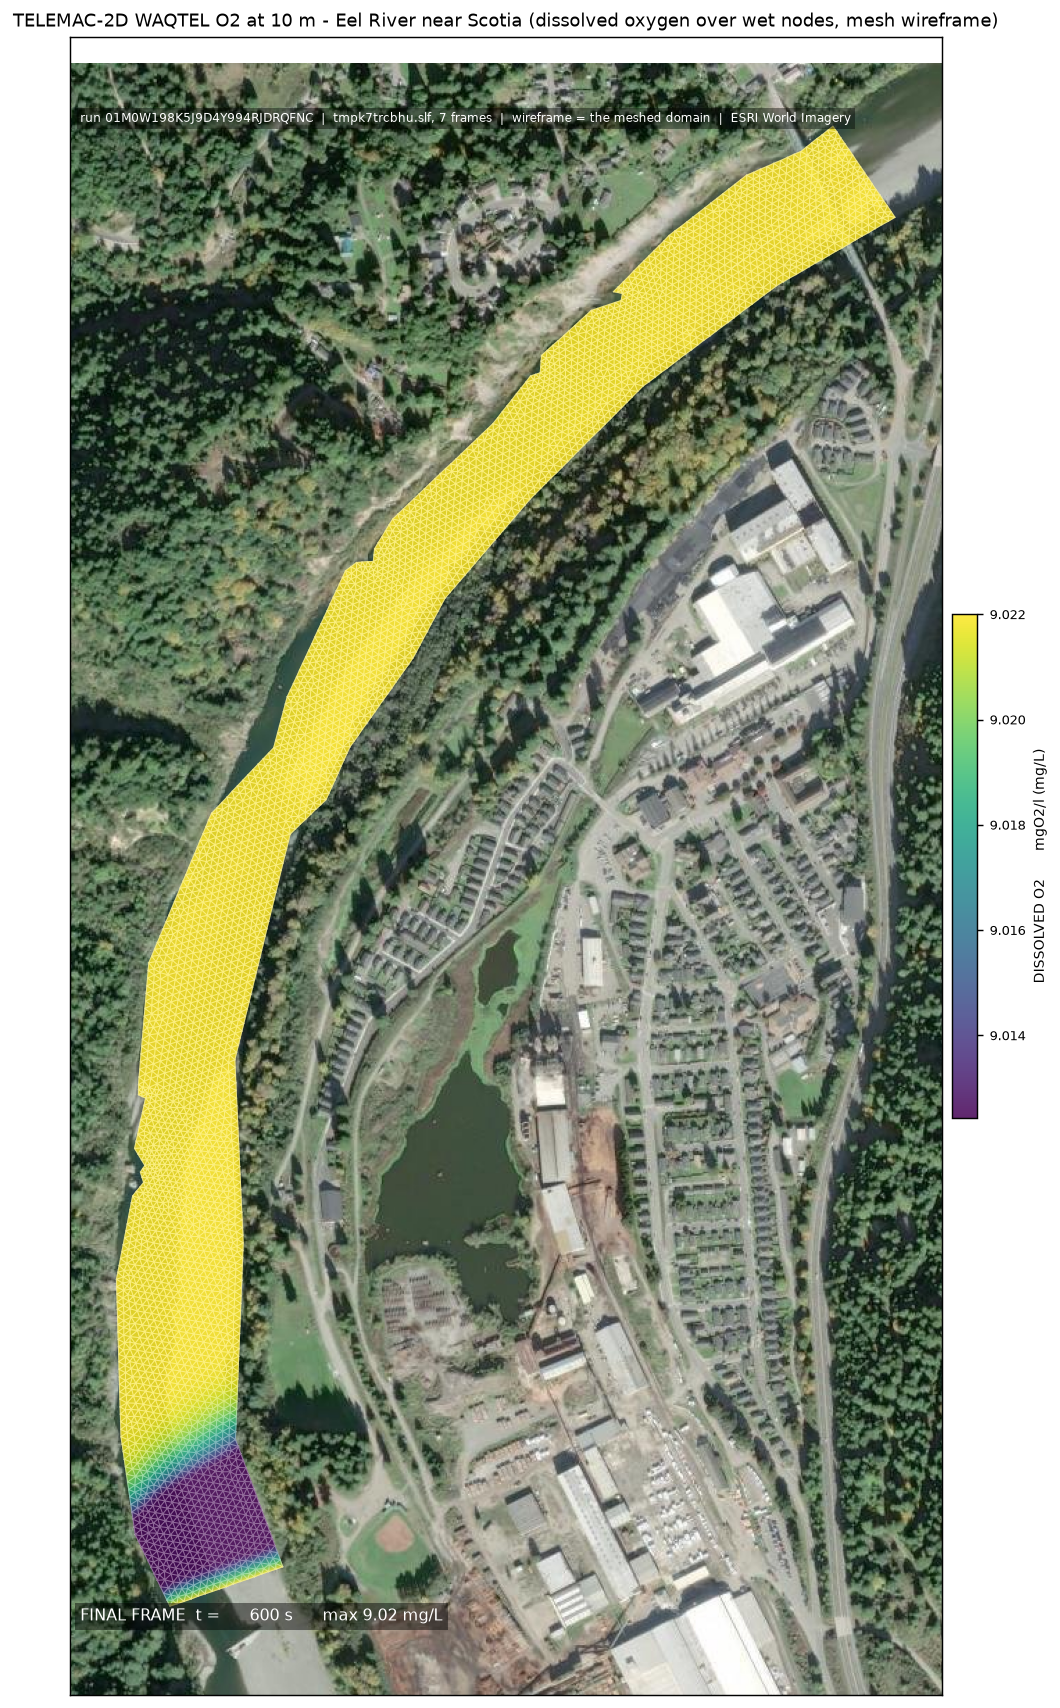
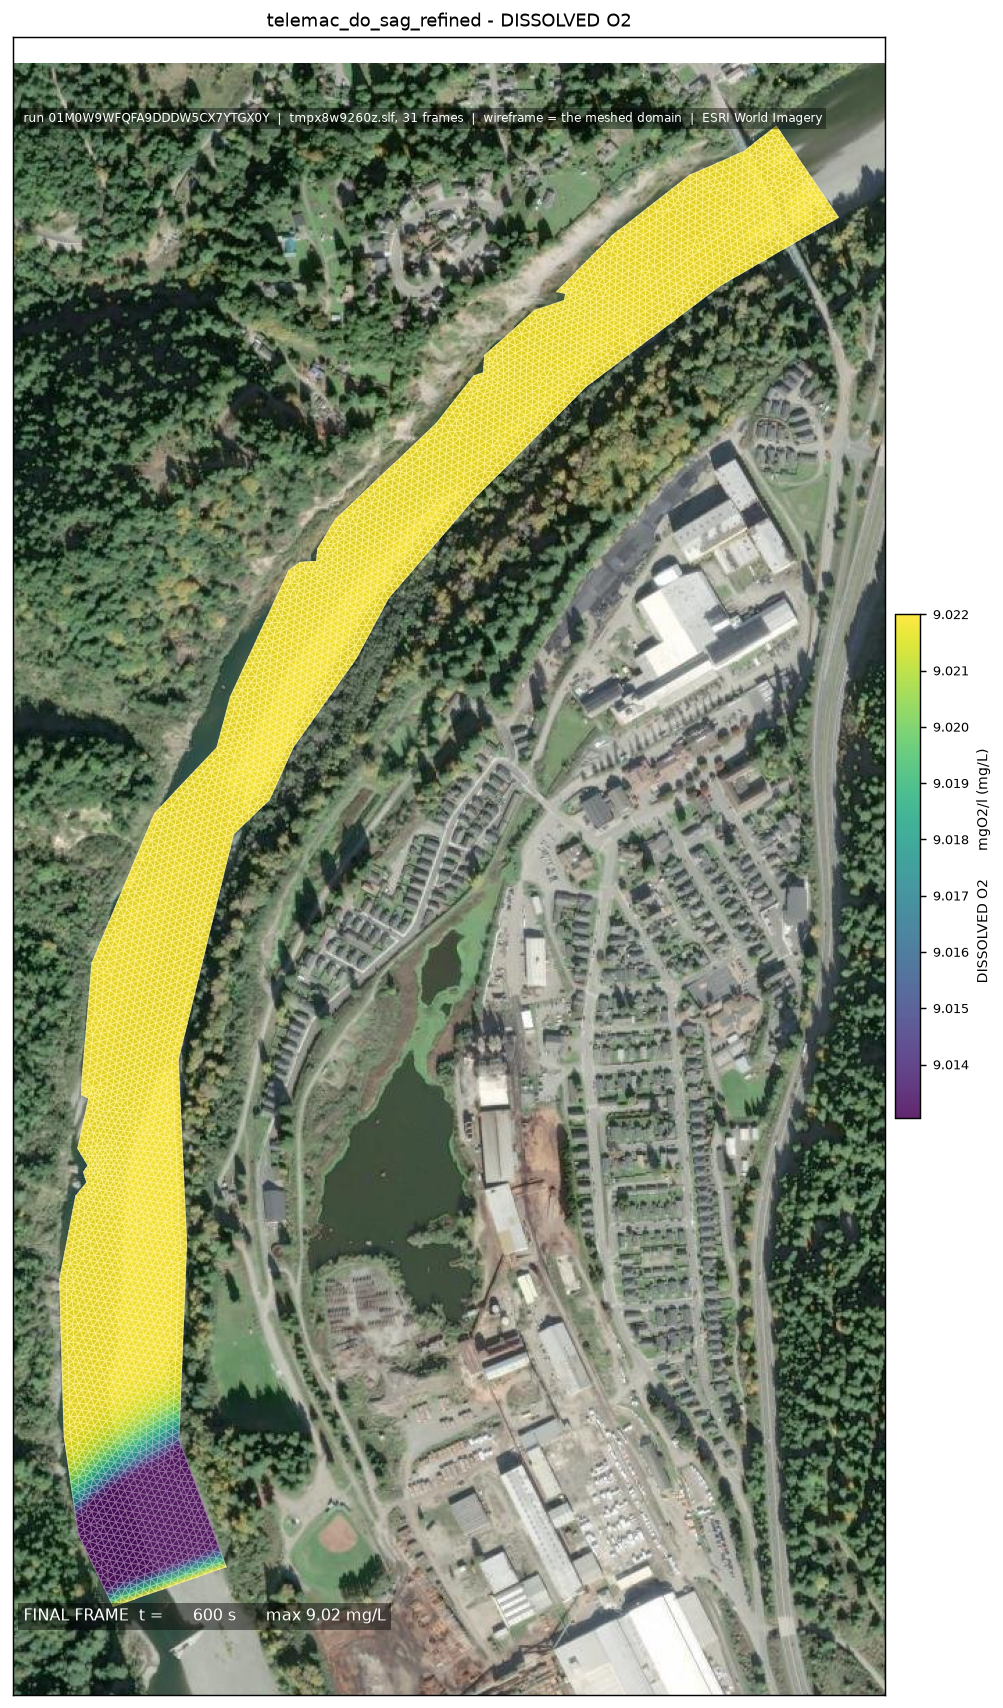
feat(do_sag): declare the output cadence the deck writer always accepted
The 2026-08-25 river-dye pass found telemac_do_sag could not be made denser
because its PARAMS named no output_interval_min - a lever gap, not a bound,
since write_reach_deck has accepted the keyword all along and river_dye
declares it. Closing it is a TEMPLATE-ONLY change, which is the point: one
Param plus one slot on Physics("waqtel_o2", ...), and the skeleton carries
it into the same deck field. No step, facade, worker or deck-writer line
moved.

The refined canary declares 0.333 min, matching river_dye, and the run goes
from 7 frames to 31 over the same 600 s window. DO minimum 9.0081 mg/L at
123.5 m, meeting the 5 mg/L standard - the same answer the 7-frame run gave
(9.0099 at 158.8 m), so the cadence changed the sampling and not the physics.

refined_animation_frame_evolution.json is the check that the frames earn
their bytes: both cohort GIFs have 31 frames, 31 distinct frame means, and
zero identical consecutive pairs.

diff --git a/trid3nt_server/workflows/telemac/do_sag/do_sag.py b/trid3nt_server/workflows/telemac/do_sag/do_sag.py
@@ -110,6 +110,9 @@ PARAMS: tuple[Param, ...] = (
           consequence="scenario",
           desc="Bank geometry source: nhd_area (real polygons, else a typed refusal) "
                "| constant_ribbon (assumed width)"),
+    Param("output_interval_min", door=doors.USER, optional=True, bounds=(0.1, 1440.0),
+          units="min", consequence="numerical",
+          desc="Result-writing cadence; unset keeps the deck's own graphic period"),
     Param("discharge_m3s", door=doors.USER, optional=True, units="m^3/s",
           bounds=(0.01, 1.0e5), consequence="physics", user_lever=True,
           desc="Steady carrier discharge; unset resolves from the NOAA National "
@@ -143,7 +146,8 @@ def plan(p, d, ops):  # noqa: ANN001, ANN201 - the declared plan value, per the 
     """The DO-sag recipe. Pure: constructs the plan value, executes nothing."""
     physics = Physics("waqtel_o2", do_sag_config=Ref("waqtel"),
                       reach_seed_coords=p.outfall_coords,
-                      sim_duration_s=p.sim_duration_s)
+                      sim_duration_s=p.sim_duration_s,
+                      output_interval_min=p.output_interval_min)
     forcing = Forcing(carrier=Ref("reviewed_discharge"))
     mesh = ops.build_mesh(
         Ref("reach"),

diff --git a/trid3nt_server/testing/canaries.py b/trid3nt_server/testing/canaries.py
@@ -262,7 +262,15 @@ CANARIES.update({
             "do_standard_mgl": 5.0, "k1_per_day": 0.3, "k2_per_day": 0.9,
             "reach_length_km": 0.5, "sim_duration_s": 600.0,
             "mesh_resolution": "coarse", "mesh_resolution_m": 10.0,
-            "discharge_m3s": 60.0, "input_mode": "auto",
+            "discharge_m3s": 60.0,
+            # 30 frames over the 600 s window instead of the worker default's 6,
+            # for the same reason the dye run asks for them: a sag that develops
+            # and settles inside six frames cannot be spot-checked against. The
+            # cadence is the SOLVER's output interval, so the run produces more
+            # of its own answer rather than the renderer interpolating between
+            # fewer.
+            "output_interval_min": 0.333,
+            "input_mode": "auto",
         },
         case_title="refined: telemac do sag (Eel River near Scotia, 10 m)",
         answers=GateAnswers(confirm="proceed"), cleanup_case=True),

diff --git a/docs/proof/templates/README.md b/docs/proof/templates/README.md
@@ -55,6 +55,22 @@ current canary reports `datum_offset_m: -0.232` and `sl_peak_m: 2.613` (NAVD 88)
 against the pre-fix `2.845` (MLLW); a render whose metrics show a zero offset is
 a pre-fix artifact and is kept as history, not as the current answer.
 
+### The do-sag lever gap is closed - both cohort animations now run at 0.333 min
+
+The 2026-08-25 river-dye pass recorded that `telemac_do_sag` could not be made
+denser because its `PARAMS` declared no `output_interval_min`, though the deck
+writer it calls has accepted one all along. That gap is now closed by the
+declaration alone: `do_sag.py` gains the `Param` (bounds 0.1-1440 min, USER
+door) and passes it into its `Physics("waqtel_o2", ...)` slot, which the
+skeleton folds into the same `write_reach_deck(output_interval_min=...)`
+keyword river-dye already used. No step, facade, worker or deck-writer code
+changed - the workflow-only law held.
+
+The refined do-sag canary consequently went from 7 frames to 31 over the same
+600 s window. `refined_animation_frame_evolution.json` is the check that the
+extra frames are worth their bytes: every consecutive pair of frames differs,
+in both cohort GIFs, so the cadence bought new field data rather than repeats.
+
 ### Known open defect: the coastal chart renders blank
 
 `coastal_tidal_surge_chart_coastal_stage_vs_inundation.png` and its `_refined`
